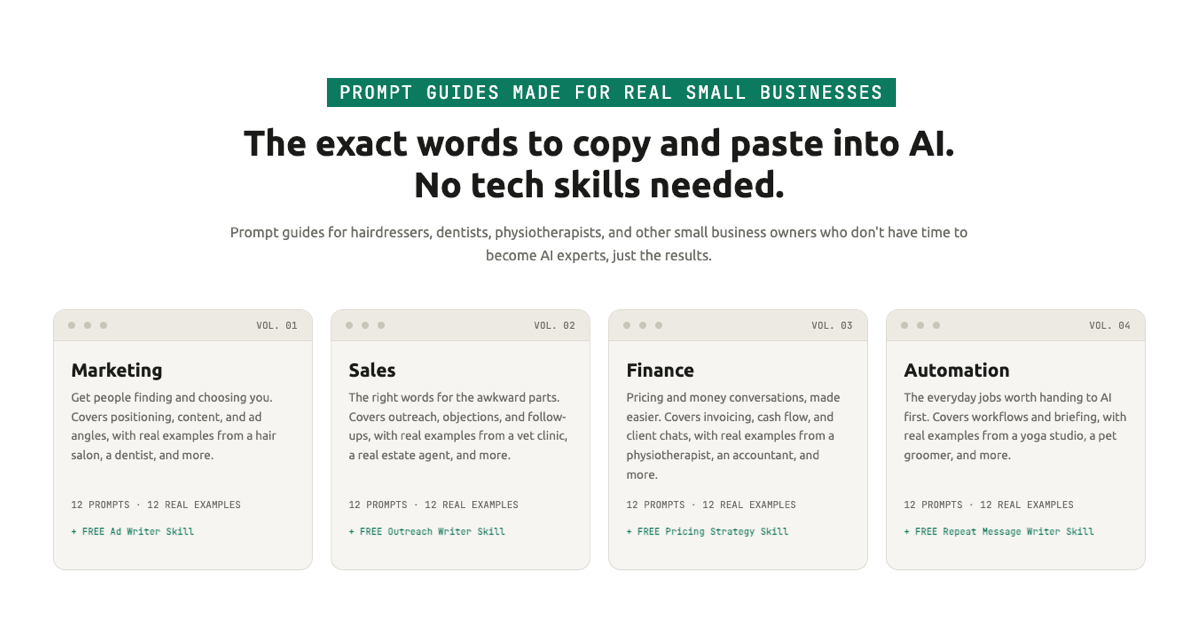
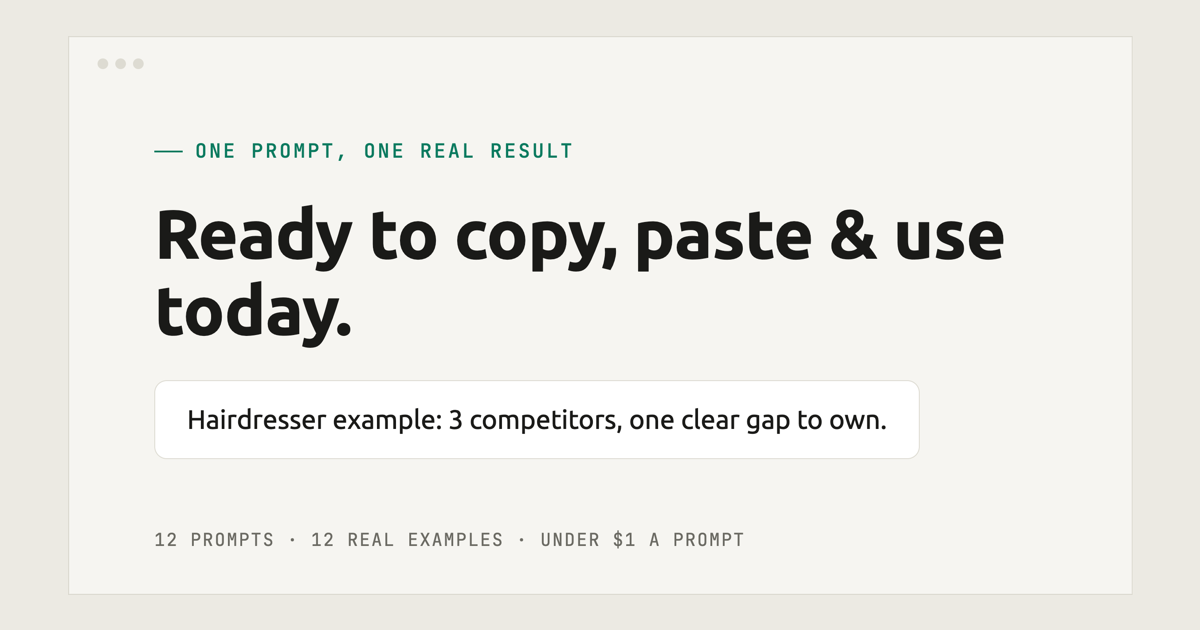
swap main-site og image to og-image.png; refresh og-default.png; drop unused webp

diff --git a/index.html b/index.html
@@ -21,7 +21,7 @@
 <meta property="og:type" content="website">
 <meta property="og:url" content="https://taniainteractive.co.uk/">
 <meta property="og:locale" content="en_GB">
-<meta property="og:image" content="https://taniainteractive.co.uk/assets/og-default.png">
+<meta property="og:image" content="https://taniainteractive.co.uk/assets/og-image.png">
 <meta property="og:image:width" content="1200">
 <meta property="og:image:height" content="630">
 <meta property="og:image:alt" content="taniainteractive — Tânia Lopes">
@@ -29,7 +29,7 @@
 <meta name="twitter:card" content="summary_large_image">
 <meta name="twitter:title" content="Tânia Lopes - Founder & CEO">
 <meta name="twitter:description" content="AI, Accessibility & Web Platforms. 20+ years shipping software across three countries.">
-<meta name="twitter:image" content="https://taniainteractive.co.uk/assets/og-default.png">
+<meta name="twitter:image" content="https://taniainteractive.co.uk/assets/og-image.png">
 
 <title>Tânia Lopes - Founder & CEO | AI, Accessibility & Web Platforms</title>
 
